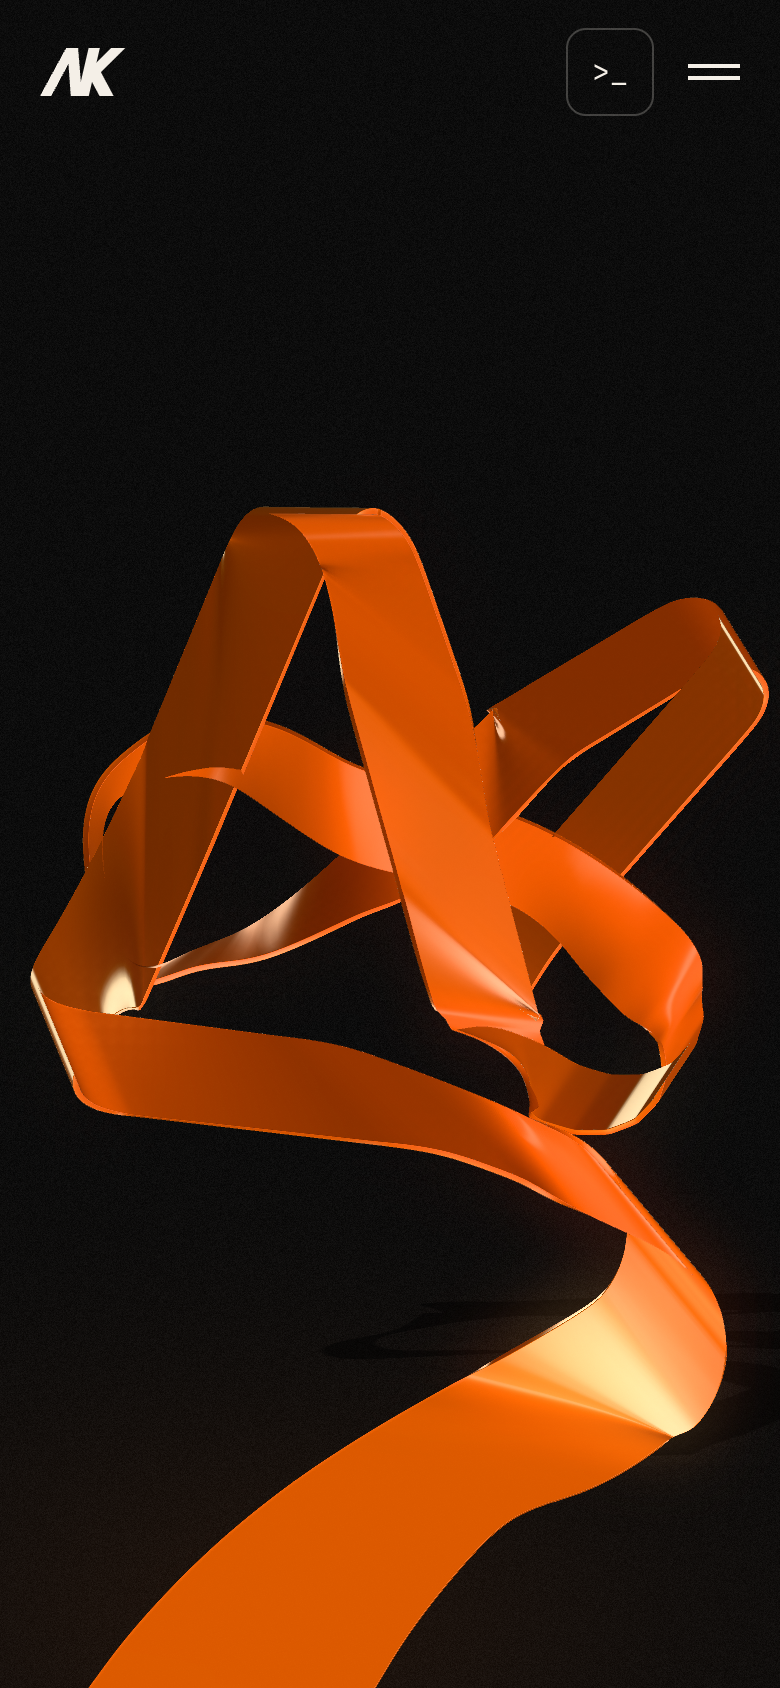
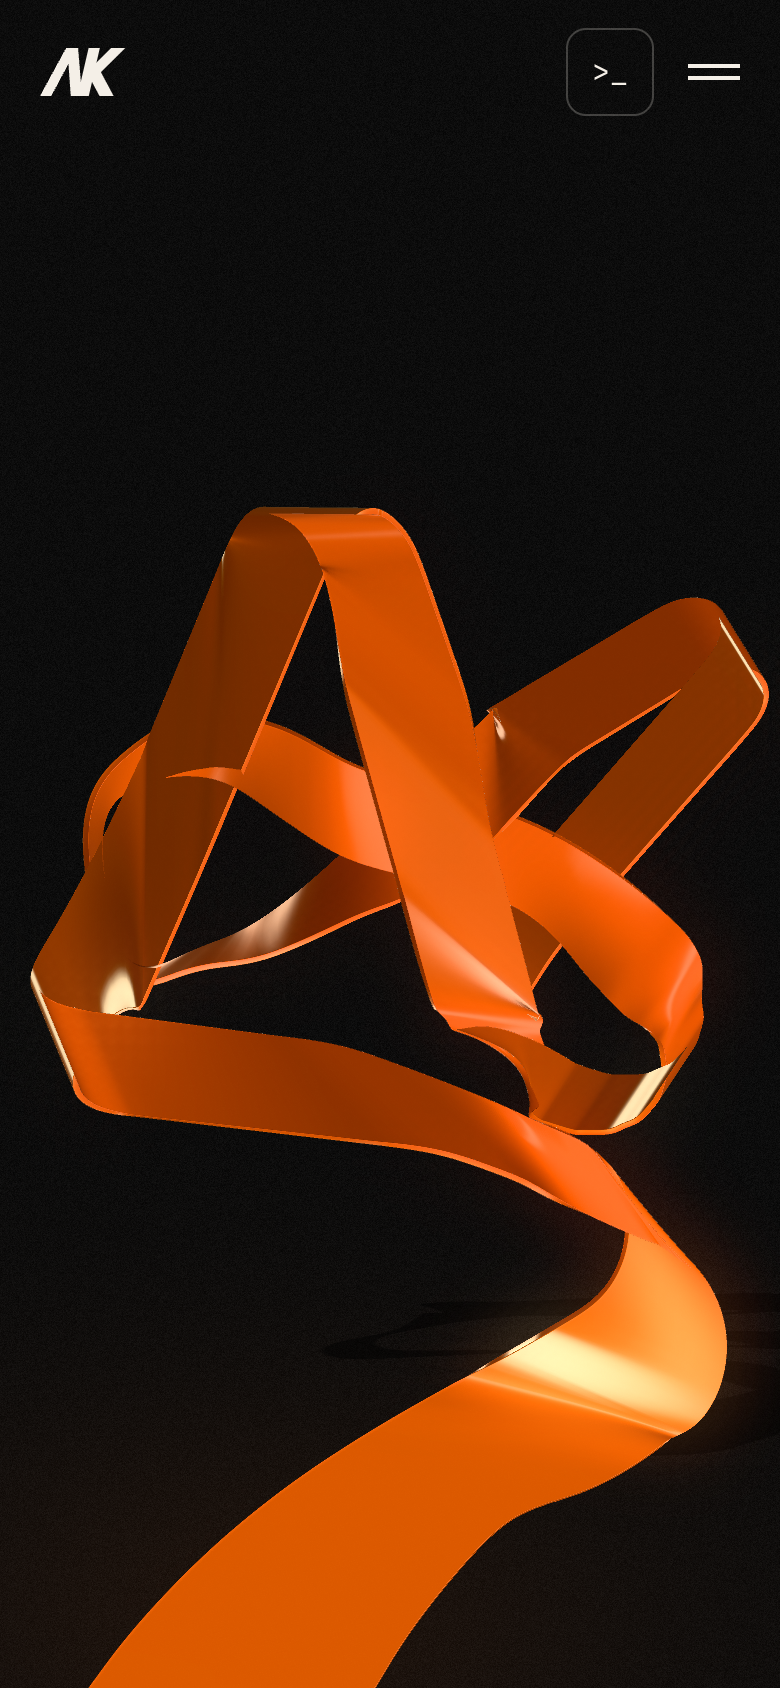
feat(curve): equal-fraction ruling pairing over the S (EQS): r33 = new best, S fan gone

Changed region(s): [[0.6462, 0.7085, 0.9231, 0.8626], [0.7385, 0.6777, 0.8, 0.7085], [0.8, 0.6469, 0.8308, 0.6777]]

diff --git a/scripts/curve/rotosurf.py b/scripts/curve/rotosurf.py
@@ -304,6 +304,29 @@ if APPROVED:
     SECW = (wt, tot)
     if False:
         print("  approved %s: rings %d..%d  relief %.0f..%.0f" % (nm, r0, r1, np.nanmin(RELZ[r0:r1 + 1]), np.nanmax(RELZ[r0:r1 + 1])))
+EQS = os.environ.get("EQS", "125:215")  # "a:b": rings a..b keep both edge polylines but are re-paired at equal arclength FRACTIONS of each edge (kills the fan of rulings where one edge advances slowly), blended in/out over EQS_RAMP rings (default 125:215 = r33: removes the S fan)
+if EQS:
+    ea, eb = (int(x_) for x_ in EQS.split(":"))
+    er = int(os.environ.get("EQS_RAMP", 12))
+    def _rang(L_, R_):
+        a_ = np.arctan2(*(R_ - L_)[:, ::-1].T)
+        return np.degrees((np.diff(a_) + np.pi) % (2 * np.pi) - np.pi)
+    def _resamp(P_, t_):
+        d_ = np.linalg.norm(np.diff(P_, axis=0), axis=1)
+        s_ = np.concatenate([[0], np.cumsum(d_)]); s_ /= s_[-1]
+        keep = np.concatenate([[True], d_ > 1e-9])  # ignore zero-length steps
+        return np.stack([np.interp(t_, s_[keep], P_[keep, k_]) for k_ in range(P_.shape[1])], axis=1)
+    ti = (np.arange(ea, eb + 1) - ea) / float(eb - ea)
+    Lq, Rq = _resamp(Lraw[ea:eb + 1], ti), _resamp(Rraw[ea:eb + 1], ti)
+    def _ss(x_):
+        x_ = np.clip(x_, 0, 1); return x_ * x_ * (3 - 2 * x_)
+    k_ = np.arange(eb - ea + 1)
+    ew = _ss(np.minimum(k_, (eb - ea) - k_) / float(max(er, 1)))
+    ang0 = np.abs(_rang(Lraw[ea:eb + 1], Rraw[ea:eb + 1])).max()
+    Lraw[ea:eb + 1] = Lraw[ea:eb + 1] + ew[:, None] * (Lq - Lraw[ea:eb + 1])
+    Rraw[ea:eb + 1] = Rraw[ea:eb + 1] + ew[:, None] * (Rq - Rraw[ea:eb + 1])
+    ang1 = np.abs(_rang(Lraw[ea:eb + 1], Rraw[ea:eb + 1])).max()
+    print("  EQS %d..%d ramp %d: max ruling-angle step before %.2f deg, after %.2f deg" % (ea, eb, er, ang0, ang1))
 L2 = gsmooth(Lraw, float(os.environ.get('EDGE_SIG', 3.5)))
 R2 = gsmooth(Rraw, float(os.environ.get('EDGE_SIG', 3.5)))
 if os.environ.get("DUMP_EDGES"):

diff --git a/docs/ribbon/turns/STATUS.md b/docs/ribbon/turns/STATUS.md
@@ -213,3 +213,7 @@ Fresh session after the Mac reset. The env is rebuilt and r23 reproduces byte-id
 - FIX: `ALIGN=1`: each section is located on the trace by position and resampled onto the trace's rings by arclength. For S the fade-in completes by ring 148 (`S_FADE_END`), before the pinned rings. Default `ALIGN_SECS=S`: aligning F/A/P too (r28) put a diagonal seam in the sweep and a notch at the left-leg corner.
 - Tried and rejected: no approved S (r24, r27: a sharper kink); longer index fade FADE_S_LO 70/110 (r25, r26: barely softer); an earlier S fade end 140 (r30: kinks at 124–134).
 - Still open at the S: a bright fan of shading converging toward the S's lower tip (the rulings rotate fast there). The mockup is a broad, even turn with a thin bright rim along the inner edge.
+
+## 2026-10-09: r33 = new best (S fan removed)
+- The S's bright fan came from the ruling pairing: at ring 135 the L edge advanced 7.4 px/ring and the R edge 1.2, so the rulings swept from one point. `EQS=a:b` re-pairs both edges at equal arclength fractions over rings a..b (blended in/out over EQS_RAMP=12). The default is 125:215 (r33): the fan is gone and the bend reads round. 118:243 (r32) is similar but adds more near-intersections; 140:200 (r34) misses ring 135 and changes nothing.
+- Still open at the S: a faint seam line running from the lower left into the S's tip (render ≈ x 540–675, y 1400–1435).

diff --git a/docs/ribbon/RESUME.md b/docs/ribbon/RESUME.md
@@ -5,7 +5,7 @@ Read this first, then `docs/ribbon/turns/STATUS.md` (latest sections) and `docs/
 ## Where the work is
 - Branch: **`claude/upbeat-hellman-f92bb7`** on origin (pushed 2026-10-08 at the owner's request before the reset). It is `rebrand/ribbon` plus all of this session's work. Restore: `git clone`, then `git checkout claude/upbeat-hellman-f92bb7`, then `npm install`, then recreate the venv (below).
 - `ak-hero.json` is NOT changed: swapping in a pose needs the owner's OK.
-- **Current best AK: `docs/ribbon/turns/curve/best/pose.json`** (= **r31**, 2026-10-09: r23 + the arclength-aligned S splice, `ALIGN=1 ALIGN_SECS=S`, which removes the S crease; see STATUS.md 2026-10-09). r23 = `ALIGN=0`.
+- **Current best AK: `docs/ribbon/turns/curve/best/pose.json`** (= **r33**, 2026-10-09: r23 + the arclength-aligned S splice (`ALIGN=1 ALIGN_SECS=S`, r31: removes the S crease) + equal-fraction ruling pairing over the S (`EQS=125:215`: removes the S fan); see STATUS.md 2026-10-09). r23 = `ALIGN=0 EQS=`.
   - Build it with `scripts/curve/rotosurf.py best`.
 
 ## The approach that finally works: `scripts/curve/rotosurf.py`
